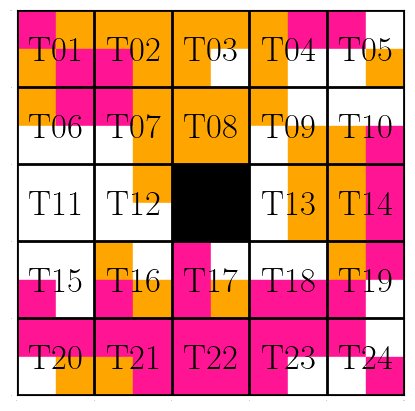
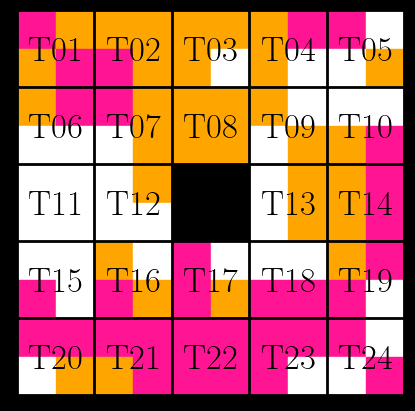
Updated board ploting formats

Changed region(s): [[0.0, 0.0, 1.0, 1.0]]

diff --git a/Scripts/GameClasses.py b/Scripts/GameClasses.py
@@ -56,21 +56,23 @@ class Board:
                         ['black','deeppink','orange','white']]
         for colors in combinations:
             f,ax = plt.subplots(1,1,figsize=(5,5))
+            plt.style.use('dark_background')
             ax.tick_params(length=0,labelsize=0)
             ax.set_xlim([0,10])
             ax.set_ylim([0,10])
-            for i in [0,2,4,6,8,10]:
-                ax.axvline(i,c='k',linewidth=2)
-                ax.plot([0,10],[i,i],c='k',linewidth=2)
             for i in np.arange(len(self.placed)):
                 row,col = [i//5,i%5]
                 x = 2*col
                 y = 10-2*row
                 points = self.pieces[row][col].colors
-                ax.scatter(x+.5,y-.5,c=colors[int(points[0][0])],marker='s',s=27**2)
-                ax.scatter(x+1.5,y-.5,c=colors[int(points[0][1])],marker='s',s=27**2)
-                ax.scatter(x+.5,y-1.5,c=colors[int(points[1][0])],marker='s',s=27**2)
-                ax.scatter(x+1.5,y-1.5,c=colors[int(points[1][1])],marker='s',s=27**2)
+                s=26.7**2
+                ax.scatter(x+.5,y-.5,c=colors[int(points[0][0])],marker='s',s=s)
+                ax.scatter(x+1.5,y-.5,c=colors[int(points[0][1])],marker='s',s=s)
+                ax.scatter(x+.5,y-1.5,c=colors[int(points[1][0])],marker='s',s=s)
+                ax.scatter(x+1.5,y-1.5,c=colors[int(points[1][1])],marker='s',s=s)
+            for i in [0,2,4,6,8,10]:
+                ax.axvline(i,c='k',linewidth=2)
+                ax.plot([0,10],[i,i],c='k',linewidth=2)
             fname = filename.rstrip('.png')
             fname = fname+f'.C{combinations.index(colors)+1}.png'
             f.savefig(fname,bbox_inches='tight',pad_inches=.1)

diff --git a/README.md b/README.md
@@ -17,7 +17,7 @@ The code will prompt you for a starting tile and a starting rotation. Tiles are 
 
 Since each tile pattern has a version for each permutation of the 3 colors, a single solution actually represents 6 solutions, one for each perumtation of (white,orange,magenta):
 
-<img src="ReadmeImages/Board.2.1.1.C1.png" alt="c1" width="75"/> <img src="ReadmeImages/Board.2.1.1.C2.png" alt="c2" width="75"/> <img src="ReadmeImages/Board.2.1.1.C3.png" alt="c3" width="75"/> <img src="ReadmeImages/Board.2.1.1.C4.png" alt="c4" width="75"/> <img src="ReadmeImages/Board.2.1.1.C5.png" alt="c5" width="75"/> <img src="ReadmeImages/Board.2.1.1.C6.png" alt="c6" width="75"/>
+<img src="ReadmeImages/Board.8.1.1.C1.png" alt="c1" width="75"/> <img src="ReadmeImages/Board.8.1.1.C2.png" alt="c2" width="75"/> <img src="ReadmeImages/Board.8.1.1.C3.png" alt="c3" width="75"/> <img src="ReadmeImages/Board.8.1.1.C4.png" alt="c4" width="75"/> <img src="ReadmeImages/Board.8.1.1.C5.png" alt="c5" width="75"/> <img src="ReadmeImages/Board.8.1.1.C6.png" alt="c6" width="75"/>
 
 So in accounting for symmetry and color permutations, there are only 14 starting conditions that need to be simulated in order to find all possible solutions. The (starting piece, starting rotation) options are:
 
